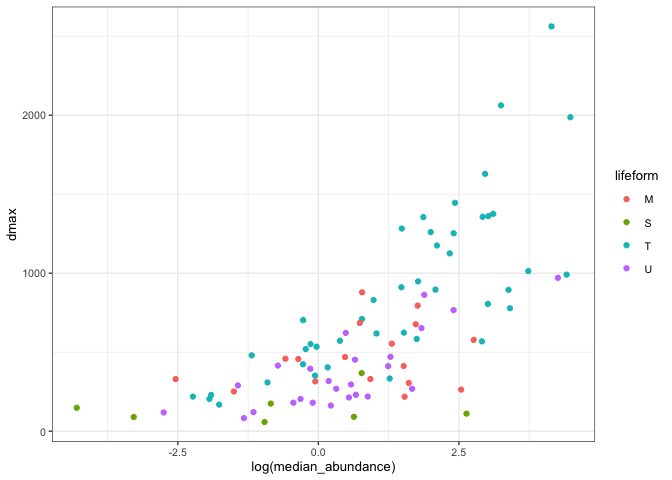
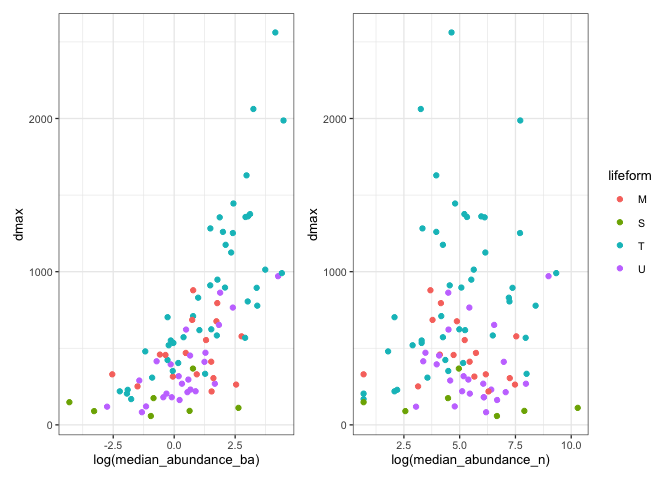
also look at abundance as n individuals

diff --git a/code/exploration/22_abundance-size.md b/code/exploration/22_abundance-size.md
@@ -34,11 +34,11 @@ tree_data <-
 abun <- 
   tree_data %>% 
   group_by(year, sp4, sp6, genus, species) %>% 
-  summarise(abundance = sum(basal_area_m2, na.rm = TRUE)) %>% 
+  summarise(abundance_ba = sum(basal_area_m2, na.rm = TRUE),
+            abundance_n = n_distinct(tree)) %>% 
   group_by(sp4, sp6, genus, species) %>% 
-  summarise(median_abundance = median(abundance, na.rm = TRUE),
-            mean_abundance = mean(abundance, na.rm = TRUE),
-            max_abundance = max(abundance, na.rm = TRUE))
+  summarise(median_abundance_ba = median(abundance_ba, na.rm = TRUE),
+            median_abundance_n = median(abundance_n, na.rm = TRUE))
 ```
 
     ## `summarise()` has grouped output by 'year', 'sp4', 'sp6', 'genus'. You can
@@ -47,14 +47,33 @@ abun <-
     ## using the `.groups` argument.
 
 ``` r
+abun %>% 
+  inner_join(R50) %>% 
+  left_join(read_csv(here::here("data", "clean", "species_list.csv"))) %>% 
+  ggplot(aes(x = log(median_abundance_ba), y = dmax,
+             colour = lifeform)) +
+  geom_point()  +
+  
   abun %>% 
   inner_join(R50) %>% 
   left_join(read_csv(here::here("data", "clean", "species_list.csv"))) %>% 
-  ggplot(aes(x = log(median_abundance), y = dmax,
+  ggplot(aes(x = log(median_abundance_n), y = dmax,
              colour = lifeform)) +
-  geom_point()  
+  geom_point() +
+  
+  plot_layout(guides = "collect")
 ```
 
+    ## Joining with `by = join_by(sp6)`
+    ## Rows: 103 Columns: 19
+    ## ── Column specification
+    ## ──────────────────────────────────────────────────────── Delimiter: "," chr
+    ## (6): sp4, sp6, species, lifeform, family, genus dbl (2): seeds_per_fruit,
+    ## capsules_per_fruit lgl (11): capsules, dsp_ant, dsp_bat, dsp_bird, dsp_bbird,
+    ## dsp_explo, dsp_ma...
+    ## ℹ Use `spec()` to retrieve the full column specification for this data. ℹ
+    ## Specify the column types or set `show_col_types = FALSE` to quiet this message.
+    ## Joining with `by = join_by(sp4, sp6, genus, species)`
     ## Joining with `by = join_by(sp6)`
     ## Rows: 103 Columns: 19
     ## ── Column specification
